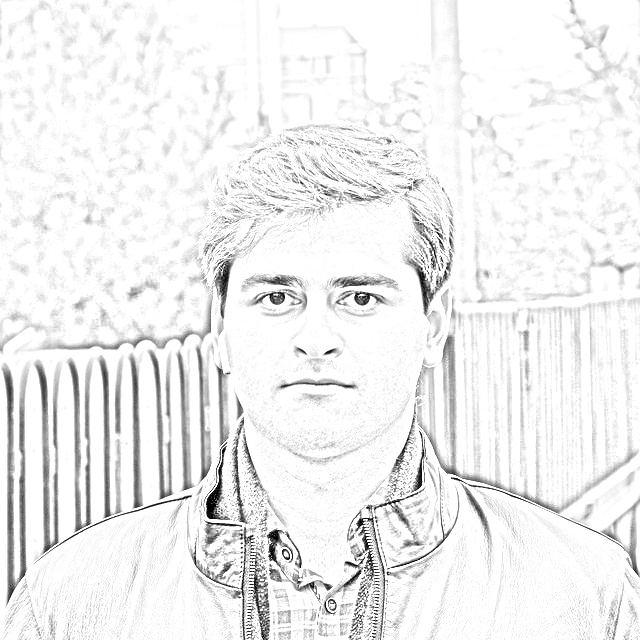
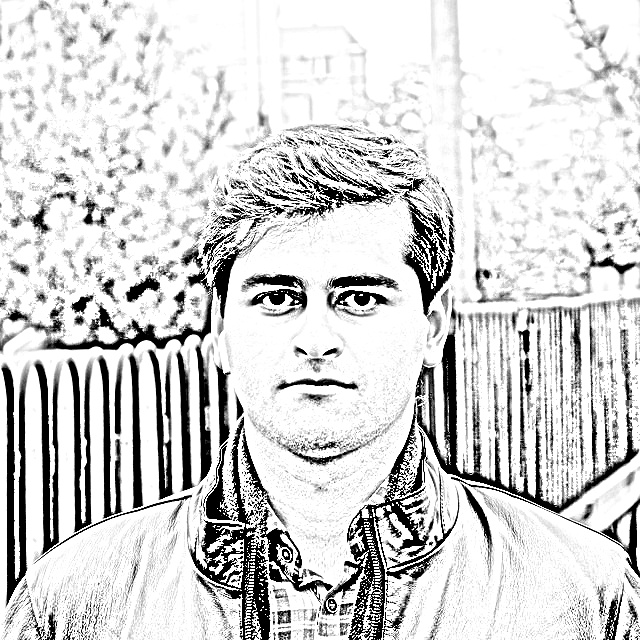
add image_to_sketch_2

diff --git a/009_image_to_sketch/image_to_sketch_2.py b/009_image_to_sketch/image_to_sketch_2.py
@@ -1,0 +1,24 @@
+import cv2
+
+
+def dodge(x,y):
+    return cv2.divide(x, 255-y, scale=256)
+
+
+def burn(image, mask):
+    return 255 - cv2.divide(255-image, 255-mask, scale=256)
+
+
+def image2pencilSketch(image):
+    image_gray = cv2.cvtColor(image, cv2.COLOR_BGR2GRAY)
+    image_gray_inv = 255 - image_gray
+    image_gray_inv_blur = cv2.GaussianBlur(image_gray_inv, (21, 21), sigmaX=0, sigmaY=0)
+    image_dodged = dodge(image_gray, image_gray_inv_blur)
+    image_result = burn(image_dodged, image_gray_inv_blur)
+    return image_result
+
+
+if __name__ == "__main__":
+    image = cv2.imread("input/sajjad.jpg")
+    result = image2pencilSketch(image)
+    cv2.imwrite("result.jpg", result)

diff --git a/009_image_to_sketch/image_to_sketch.py b/009_image_to_sketch/image_to_sketch.py
@@ -1,7 +1,7 @@
 import cv2
 
 
-image = cv2.imread("sajjad.jpg")
+image = cv2.imread("input/sajjad.jpg")
 image_gray = cv2.cvtColor(image, cv2.COLOR_BGR2GRAY)
 
 image_gray_inverted = 255 - image_gray
